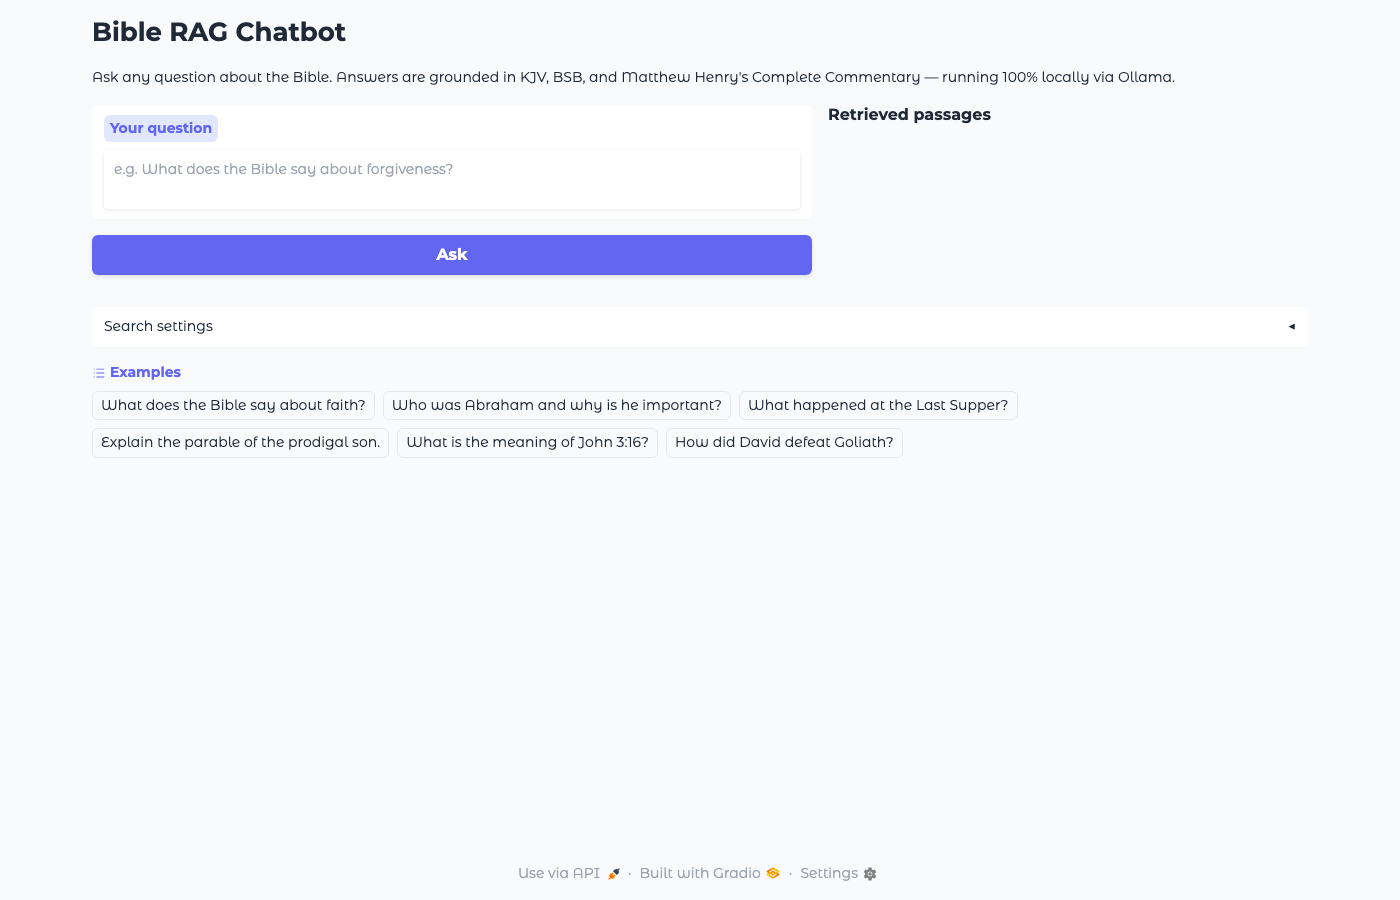
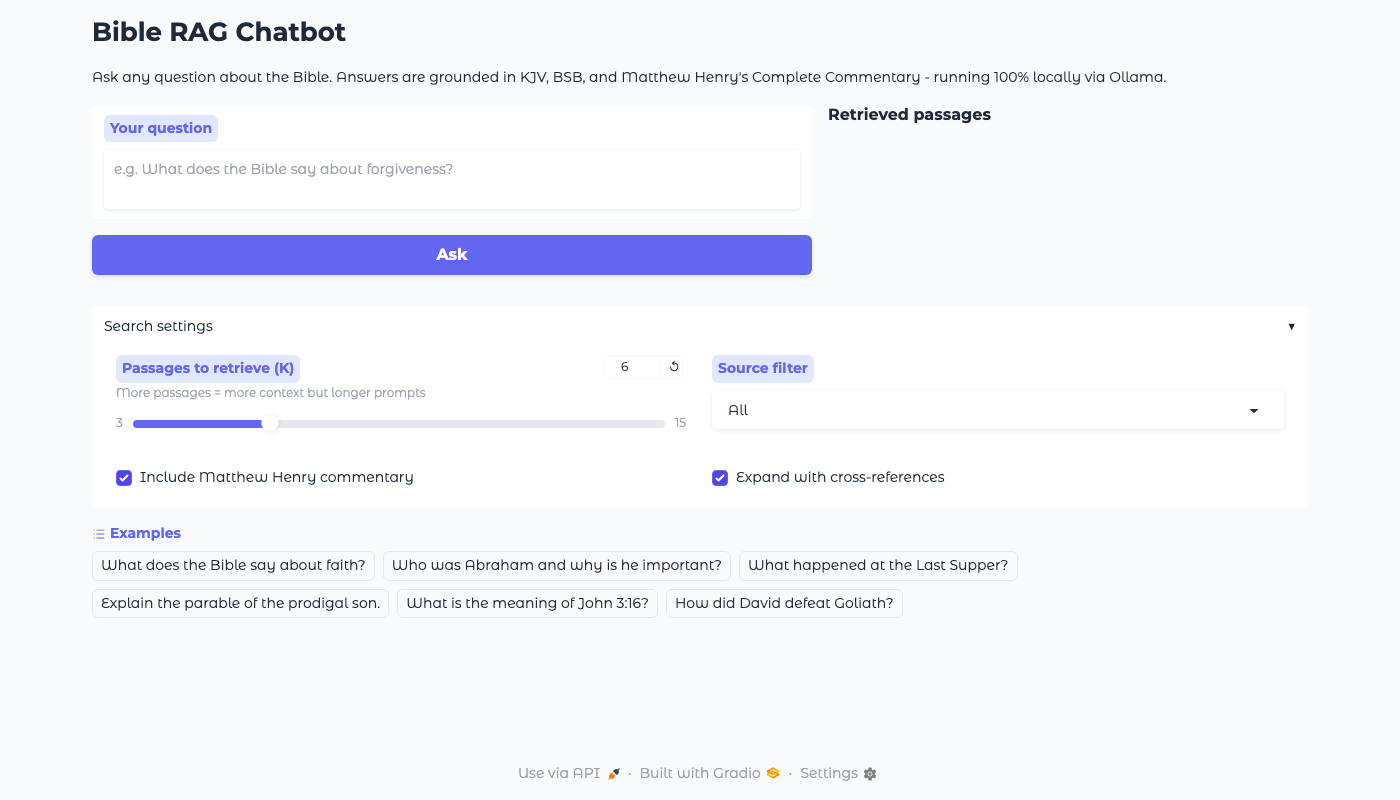
New screenshots, slight interface changes

diff --git a/README.md b/README.md
@@ -6,9 +6,9 @@ A locally-hosted retrieval-augmented question-answering system over a 367k-passa
 
 | | |
 |---|---|
-| ![Faith](docs/screenshots/01_faith_answer.png) | ![Prodigal Son](docs/screenshots/02_prodigal_answer.png) |
-| *"What does the Bible say about faith?"* | *"Explain the parable of the prodigal son."* |
-| ![David and Goliath](docs/screenshots/03_david_goliath_answer.png) | ![Out of scope](docs/screenshots/04_out_of_scope_answer.png) |
+| ![Landing](docs/screenshots/00_landing.png) | ![Faith](docs/screenshots/01_faith_answer.png) |
+| *Landing page* | *"What does the Bible say about faith?"* |
+| ![David and Goliath](docs/screenshots/02_david_goliath_answer.png) | ![Out of scope](docs/screenshots/03_out_of_scope_answer.png) |
 | *"How did David defeat Goliath?"* | *"Will Jesus return to Earth in 2026?"* |
 
 ## Stack
